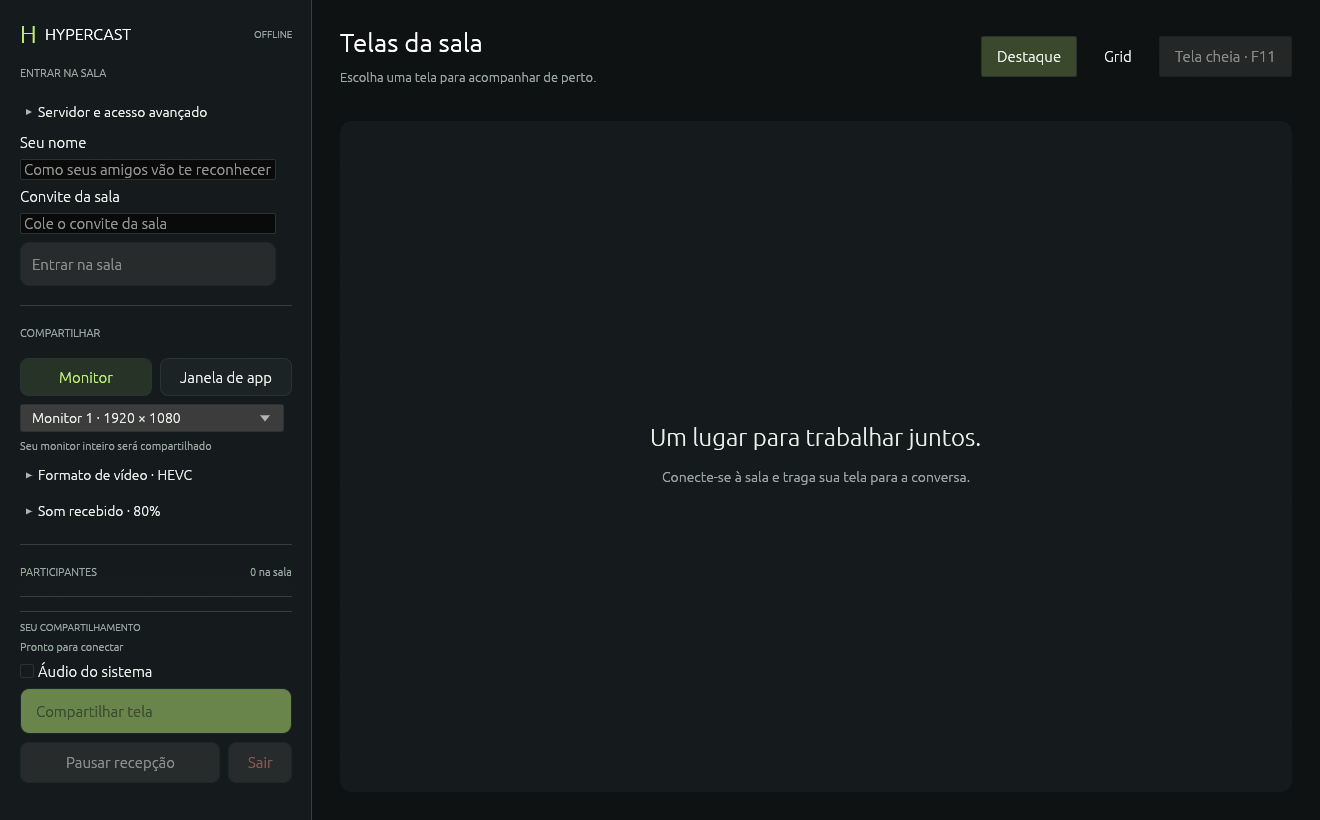
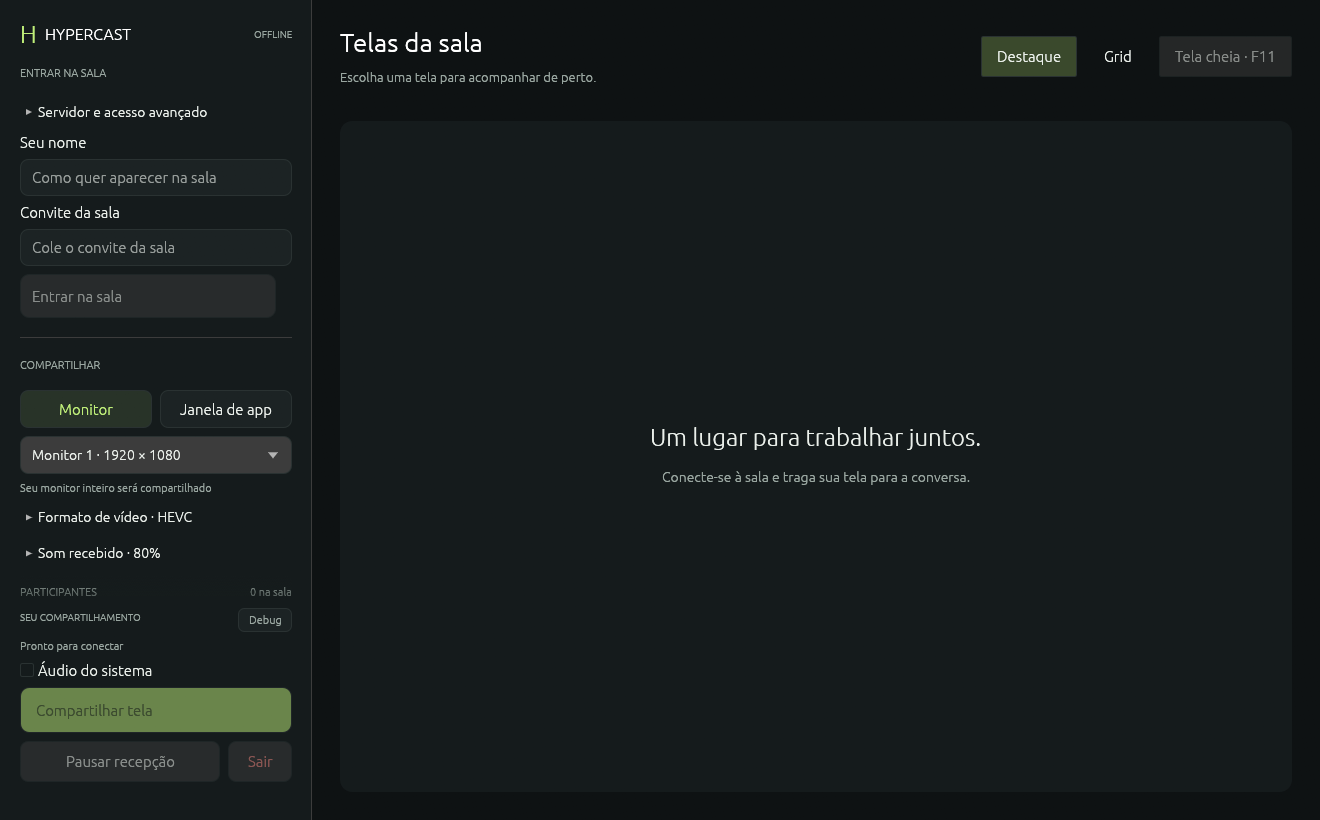
Compact diagnostics and polish sidebar inputs and source selector

diff --git a/src/desktop.rs b/src/desktop.rs
@@ -58,6 +58,20 @@ fn section_title(ui: &mut egui::Ui, label: &str, detail: &str) {
     });
 }
 
+fn text_input(ui:&mut egui::Ui,text:&mut String,hint:&str,password:bool,limit:usize,enabled:bool)->egui::Response{
+    ui.scope(|ui|{
+        ui.visuals_mut().widgets.inactive.corner_radius=egui::CornerRadius::same(8);
+        ui.visuals_mut().widgets.hovered.corner_radius=egui::CornerRadius::same(8);
+        ui.visuals_mut().widgets.active.corner_radius=egui::CornerRadius::same(8);
+        ui.visuals_mut().widgets.inactive.bg_stroke=egui::Stroke::new(1.0,BORDER);
+        ui.visuals_mut().widgets.hovered.bg_stroke=egui::Stroke::new(1.0,MUTED);
+        ui.visuals_mut().selection.stroke=egui::Stroke::new(1.5,ACCENT);
+        ui.add_enabled(enabled,egui::TextEdit::singleline(text).password(password).char_limit(limit)
+            .desired_width(f32::INFINITY).margin(egui::Margin::symmetric(12,10))
+            .background_color(SURFACE).hint_text(hint))
+    }).inner
+}
+
 struct App {
     engine: Option<Engine>,
     address: String,
@@ -78,6 +92,7 @@ struct App {
     windows:Vec<crate::video_capture::ApplicationWindow>,
     selected_window:Option<usize>,
     fullscreen:bool,
+    debug_open:bool,
     before_fullscreen_mode:ViewMode,
     codec: crate::encoder::Codec,
     parent: usize,
@@ -143,7 +158,7 @@ impl App {
             sound_muted: false,
             displays: crate::screen_capture::displays().unwrap_or_default(),
             selected_display: 0,
-            window_mode:false,windows:crate::video_capture::windows(),selected_window:None,fullscreen:false,before_fullscreen_mode:ViewMode::Spotlight,
+            window_mode:false,windows:crate::video_capture::windows(),selected_window:None,fullscreen:false,debug_open:false,before_fullscreen_mode:ViewMode::Spotlight,
             codec: if std::env::var("HYPERCAST_CODEC").as_deref() == Ok("av1") {
                 crate::encoder::Codec::Av1
             } else {
@@ -198,7 +213,10 @@ impl App {
         });
         ui.scope(|ui|{
             ui.style_mut().wrap_mode=Some(egui::TextWrapMode::Truncate);
-            let width=ui.available_width()-8.0;
+            let width=ui.available_width();
+            ui.spacing_mut().interact_size.y=38.0;
+            ui.visuals_mut().widgets.inactive.corner_radius=egui::CornerRadius::same(8);
+            ui.visuals_mut().widgets.hovered.corner_radius=egui::CornerRadius::same(8);
             if self.window_mode{
                 let title=self.windows.iter().find(|w|Some(w.hwnd)==self.selected_window)
                     .map(|w|w.title.as_str()).unwrap_or("Selecionar janela…");
@@ -233,8 +251,14 @@ impl App {
     }
     fn sharing_controls(&mut self,ui:&mut egui::Ui,connected:bool,can_publish:bool,publishing:bool,active:Option<crate::video_capture::CaptureTarget>,status:&str){
         ui.spacing_mut().item_spacing=Vec2::new(8.0,8.0);
-        ui.separator();
-        ui.label(RichText::new(if publishing{if active.is_some_and(|t|t.process().is_some()){"JANELA AO VIVO"}else{"MONITOR AO VIVO"}}else{"SEU COMPARTILHAMENTO"}).size(10.0).strong().color(if publishing{ACCENT}else{MUTED}));
+        ui.horizontal(|ui|{
+        ui.label(RichText::new(if publishing{if active.is_some_and(|t|t.process().is_some()){"JANELA AO VIVO"}else{"MONITOR AO VIVO"}}else{"SEU COMPARTILHAMENTO" }).size(10.0).strong().color(if publishing{ACCENT}else{MUTED}));
+        ui.with_layout(egui::Layout::right_to_left(egui::Align::Center),|ui|{
+            ui.spacing_mut().button_padding=Vec2::new(8.0,3.0);
+            if ui.add(egui::Button::new(RichText::new("Debug").size(11.0).color(MUTED))
+                .min_size(Vec2::new(54.0,24.0)).corner_radius(6).fill(SURFACE).stroke(egui::Stroke::new(1.0,BORDER))).on_hover_text("Diagnóstico e opções de depuração").clicked(){self.debug_open=!self.debug_open;}
+        });
+        });
         ui.scope(|ui|{
             ui.style_mut().wrap_mode=Some(egui::TextWrapMode::Truncate);
             ui.label(RichText::new(status).size(11.0).color(MUTED)).on_hover_text(status);
@@ -464,7 +488,7 @@ impl eframe::App for App {
                     .inner_margin(egui::Margin::same(20)),
             )
             .show(ui, |ui| {
-                egui::Panel::bottom("sharing_actions").exact_size(204.0)
+                egui::Panel::bottom("sharing_actions").show_separator_line(false).exact_size(204.0)
                     .frame(egui::Frame::new().fill(PANEL).inner_margin(egui::Margin::symmetric(0,12)))
                     .show(ui,|ui|{self.sharing_controls(ui,connected,can_publish,publishing,active_target,if source_error.is_empty(){&status}else{&source_error});});
                 egui::ScrollArea::vertical()
@@ -488,28 +512,17 @@ impl eframe::App for App {
                         } else {
                         egui::CollapsingHeader::new("Servidor e acesso avançado").default_open(self.token_mode).show(ui, |ui| {
                         ui.label("Servidor");
-                            ui.add_enabled(self.engine.is_none(),
-                            egui::TextEdit::singleline(&mut self.address)
-                                .desired_width(208.0)
-                                .char_limit(2048)
-                                .hint_text("wss://seu-servidor"),
-                        );
+                        text_input(ui,&mut self.address,"wss://seu-servidor",false,2048,self.engine.is_none());
                         ui.add_enabled(self.engine.is_none(), egui::Checkbox::new(&mut self.token_mode, "Token manual (avançado)"));
                         });
                         if !self.token_mode {
                             ui.label("Seu nome");
-                            ui.add_enabled(self.engine.is_none(), egui::TextEdit::singleline(&mut self.name).char_limit(64).desired_width(256.0).hint_text("Como seus amigos vão te reconhecer"));
+                            text_input(ui,&mut self.name,"Como quer aparecer na sala",false,64,self.engine.is_none());
                             ui.label("Convite da sala");
-                            ui.add_enabled(self.engine.is_none(), egui::TextEdit::singleline(&mut self.invite).password(true).char_limit(64).desired_width(256.0).hint_text("Cole o convite da sala"));
+                            text_input(ui,&mut self.invite,"Cole o convite da sala",true,64,self.engine.is_none());
                         } else {
                         ui.label("Token da sala");
-                            ui.add_enabled(self.engine.is_none(),
-                            egui::TextEdit::singleline(&mut self.token)
-                                .password(true)
-                                .char_limit(8192)
-                                .desired_width(208.0)
-                                .hint_text("Cole seu token de acesso"),
-                        );
+                        text_input(ui,&mut self.token,"Cole seu token de acesso",true,8192,self.engine.is_none());
                         }
                         if self.engine.is_none()
                             && ui
@@ -553,8 +566,6 @@ impl eframe::App for App {
 
                         });
                         ui.add_space(8.0);
-                        ui.separator();
-                        ui.add_space(8.0);
                         section_title(ui, "PARTICIPANTES", &format!("{} na sala", people.len() + usize::from(connected)));
                         ui.add_space(8.0);
                         if connected {
@@ -581,26 +592,7 @@ impl eframe::App for App {
                                 ui.label(RichText::new(if connected { "Compartilhe o convite da sala com eles." } else { "Entre na sala para acompanhar as telas." }).size(11.0).color(MUTED));
                             });
                         }
-                        ui.add_space(8.0);
-                        ui.separator();
-                        ui.add_space(8.0);
-                        ui.add_space(8.0);
-                        egui::CollapsingHeader::new("Diagnóstico").default_open(false).show(ui, |ui| {
-                        ui.add_enabled(self.engine.is_none(), egui::Checkbox::new(&mut self.relay_only, "Forçar TURN/TLS (teste)"))
-                            .on_hover_text("Use antes de entrar para testar o relay; desmarcado permite escolher a rota de menor custo");
-                        if ui.button("Copiar diagnóstico").on_hover_text("Copiar o log desta sessão, sem token ou imagens, para enviar ao suporte").clicked() {
-                            match crate::diagnostics::export_text() {
-                                Ok(text) => ctx.copy_text(text),
-                                Err(error) => self.error = format!("Diagnóstico: {error}"),
-                            }
-                        }
-                        if let Some(path) = crate::diagnostics::path() {
-                            ui.label(RichText::new("Log salvo automaticamente").size(11.0).color(MUTED))
-                                .on_hover_text(path.display().to_string());
-                        }
-                        });
-                        ui.label(RichText::new(&status).size(12.0).color(MUTED));
-                        if !audio_status.is_empty() { ui.label(RichText::new(&audio_status).size(11.0).color(MUTED)); }
+                        if audio_status.starts_with("Áudio:") { ui.colored_label(DANGER,&audio_status); }
                         if !source_error.is_empty(){ui.colored_label(DANGER,&source_error);}
                         if !self.error.is_empty() {
                             ui.colored_label(Color32::LIGHT_RED, &self.error);
@@ -909,6 +901,25 @@ impl eframe::App for App {
                     }
                 }
             });
+        if !self.fullscreen && self.debug_open {
+            egui::Window::new("Diagnóstico").id(egui::Id::new("debug_window"))
+                .open(&mut self.debug_open).fixed_pos(egui::pos2(16.0,48.0))
+                .default_width(260.0).max_width(260.0).resizable(false).collapsible(false)
+                .show(&ctx,|ui|{
+                    ui.style_mut().wrap_mode=Some(egui::TextWrapMode::Wrap);
+                    ui.label(RichText::new(&status).size(12.0));
+                    if !audio_status.is_empty(){ui.label(RichText::new(&audio_status).size(11.0).color(MUTED));}
+                    ui.add_enabled(self.engine.is_none(),egui::Checkbox::new(&mut self.relay_only,"Forçar TURN/TLS (teste)"))
+                        .on_hover_text("Ative antes de entrar para testar o relay; desativado escolhe a rota de menor custo");
+                    if ui.button("Copiar diagnóstico").on_hover_text("Copiar o log da sessão, sem token ou imagens").clicked(){
+                        match crate::diagnostics::export_text(){Ok(text)=>ctx.copy_text(text),Err(error)=>self.error=format!("Diagnóstico: {error}")}
+                    }
+                    if let Some(path)=crate::diagnostics::path(){
+                        ui.label(RichText::new("Log salvo automaticamente").size(11.0).color(MUTED)).on_hover_text(path.display().to_string());
+                    }
+                    if !self.error.is_empty(){ui.colored_label(DANGER,&self.error);}
+                });
+        }
         ctx.request_repaint_after(Duration::from_millis(500));
     }
 }

diff --git a/tests/integration_diagnostic_script.py b/tests/integration_diagnostic_script.py
@@ -32,7 +32,7 @@ def main():
     shutil.copyfile(ROOT / "tools/Test-Streaming.ps1", missing / "Test-Streaming.ps1")
     logs = run(missing / "Test-Streaming.ps1", fixture / "missing-data")
     assert "Extraia TODO" in (logs / "error.log").read_text(encoding="utf-8-sig")
-    stage = ROOT / "dist/HyperCast-0.4.1-windows-x64"
+    stage = ROOT / "dist/HyperCast-0.4.2-windows-x64"
     logs = run(stage / "Test-Streaming.ps1", fixture / "native-error-data")
     stream = (logs / "stream.log").read_text(encoding="utf-8-sig")
     assert stream.strip(), "Native stderr must be drained and saved under PowerShell 5.1"

diff --git a/tools/collect_licenses.py b/tools/collect_licenses.py
@@ -6,7 +6,7 @@ ROOT = Path(__file__).resolve().parent.parent
 
 def main():
     metadata=json.loads((ROOT/".tools/package-metadata.json").read_text(encoding="utf-8-sig"))
-    destination=ROOT/"dist/HyperCast-0.4.1-windows-x64/licenses/Rust-dependencies.txt"
+    destination=ROOT/"dist/HyperCast-0.4.2-windows-x64/licenses/Rust-dependencies.txt"
     destination.parent.mkdir(parents=True,exist_ok=True)
     with destination.open("w",encoding="utf-8") as output:
         for package in sorted(metadata["packages"],key=lambda p:(p["name"],p["version"])):

diff --git a/docs/validation.md b/docs/validation.md
@@ -1,5 +1,18 @@
 # Validação — 12 e 13/10/2026
 
+## Debug, dropdown e campos — 0.4.2, 13/10/2026
+
+Retirada seção permanente de diagnóstico e status duplicado. Debug pequeno
+abre janela egui fixa dentro da largura da lateral, evitando sobreposição ao
+HWND DirectX do vídeo. Removidos separadores redundantes e a linha automática
+do painel inferior. Dropdown ocupa a mesma largura dos botões e tem altura
+de 38 px. Campos usam margem interna, preenchimento, raio e borda de foco;
+limites, masking e bloqueio durante conexão permanecem.
+
+Build desktop e revisão visual de janela inicial, Debug aberto/fechado por
+cliques enviados somente ao HWND do processo de teste, e foco real no campo
+de nome. Sem novos testes unitários para alteração visual; sem reiniciar SFU.
+
 ## Lateral e área de vídeo — 0.4.1, 13/10/2026
 
 Configuração de monitor/janela e codec saiu do centro; os controles deixaram

diff --git a/docs/portable.md b/docs/portable.md
@@ -1,5 +1,11 @@
 # HyperCast para Windows
 
+Versão 0.4.2: **Debug**, na base da lateral, abre o painel de diagnóstico com
+**Copiar diagnóstico** e a opção de teste TURN/TLS. Feche pelo X ou pelo mesmo
+botão. Status da sessão aparece uma única vez na base. Dropdown usa a mesma
+largura dos botões Monitor/Janela; nome, convite, servidor e token têm campos
+arredondados com borda verde ao receber foco. Convite/token continuam mascarados.
+
 Na versão 0.4.1, seleção de monitor/janela e **Formato de vídeo** ficam na
 lateral. **Som recebido** abre volume e silenciamento. Os controles
 compartilhar/parar, áudio enviado, pausar recepção e sair ficam fixos na base da

diff --git a/README.md b/README.md
@@ -1,5 +1,8 @@
 # HyperCast
 
+Versão 0.4.2: **Debug** compacto na base da lateral, diagnóstico em painel
+flutuante, dropdown alinhado e campos de acesso com borda/foco visíveis.
+
 Versão 0.4.1: configurações e controles na lateral, com mais espaço para as
 telas da sala. Compartilhar/parar, pausar recepção e sair permanecem fixos;
 formato e som recebido ficam em seções expansíveis.
